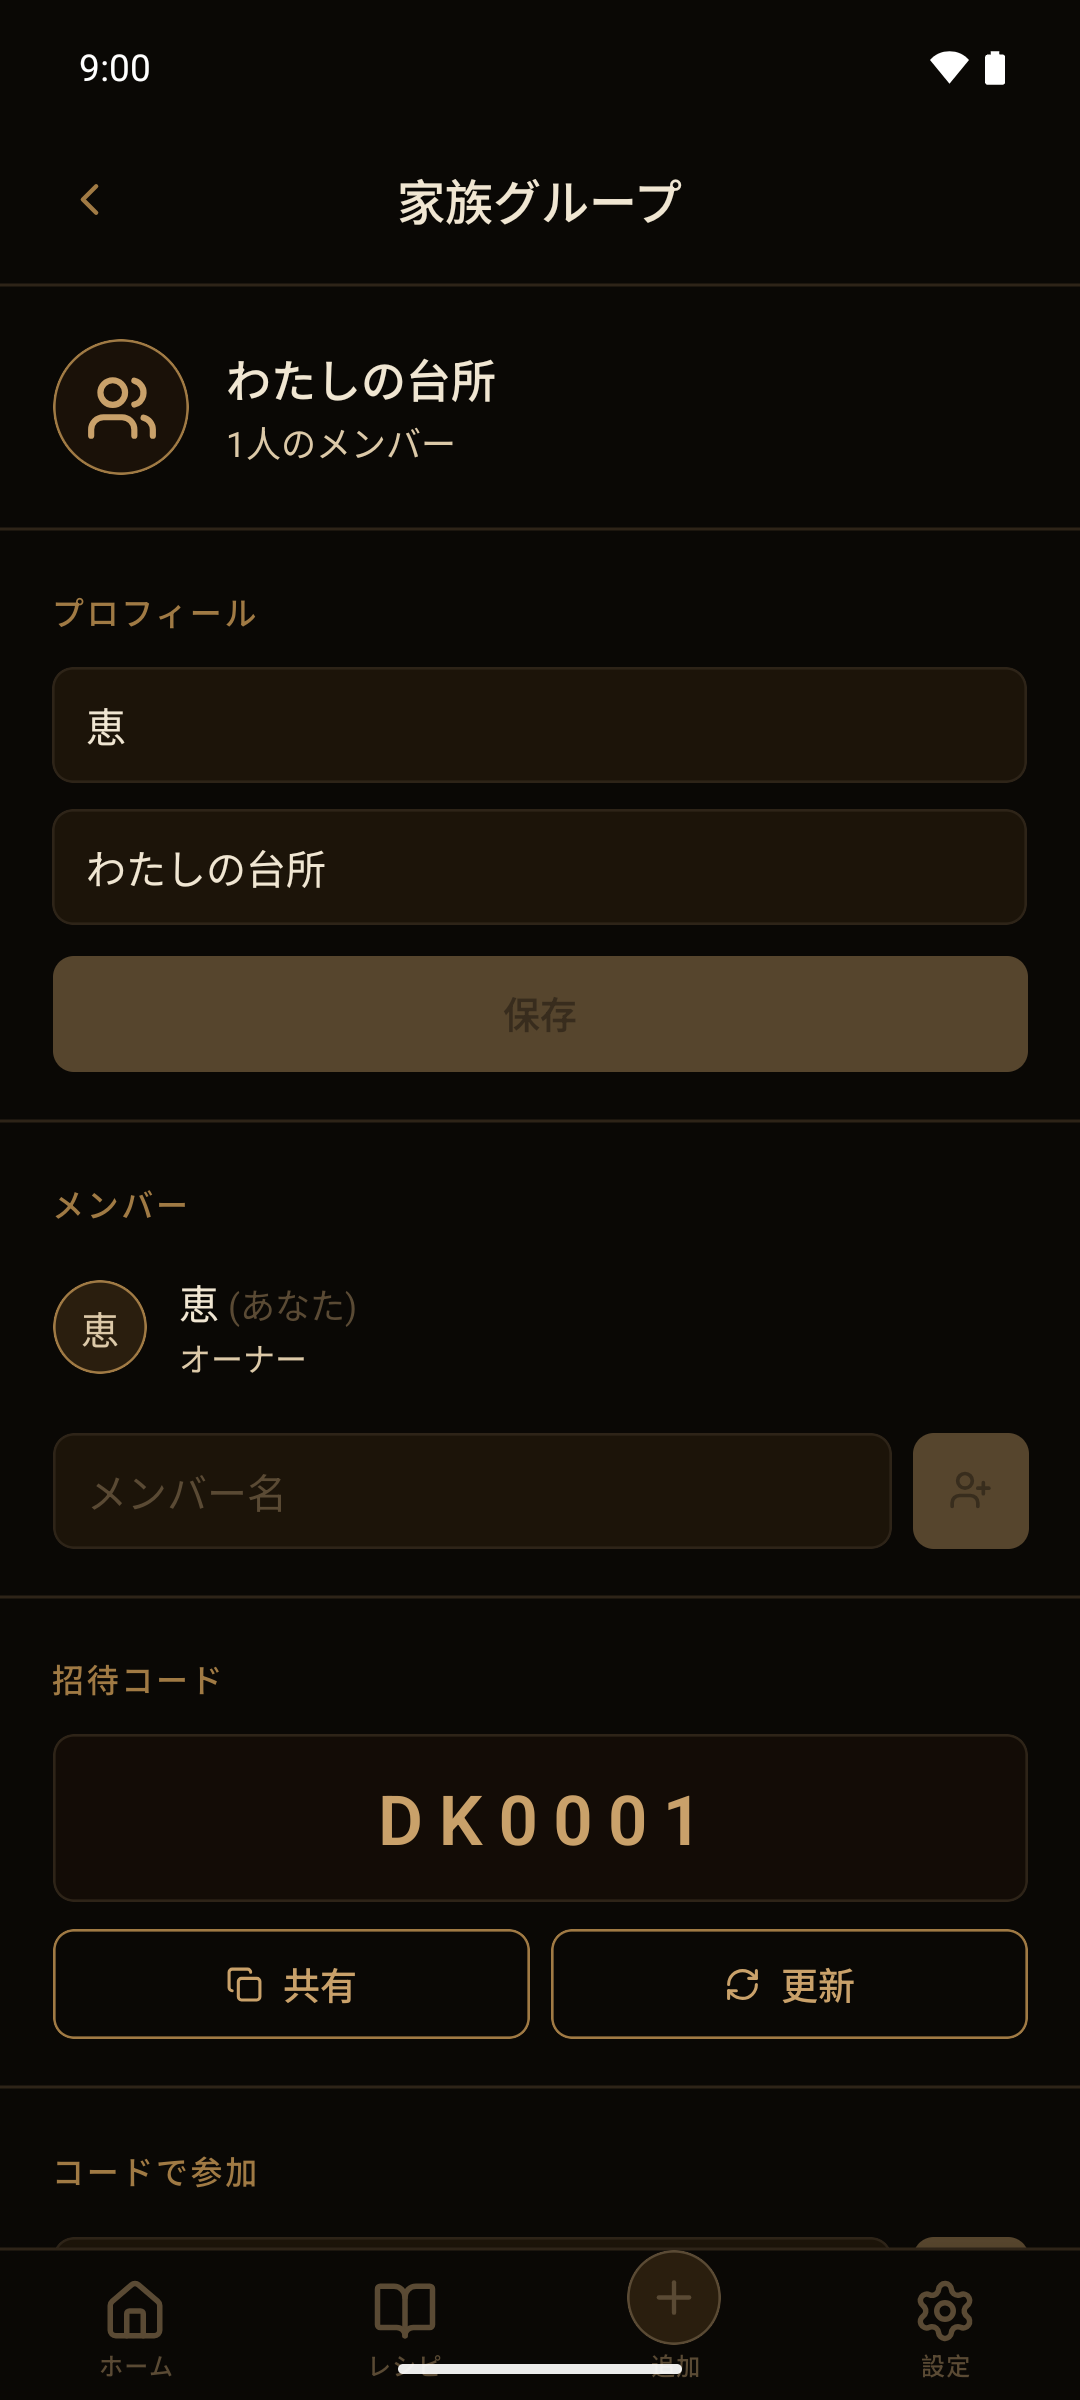
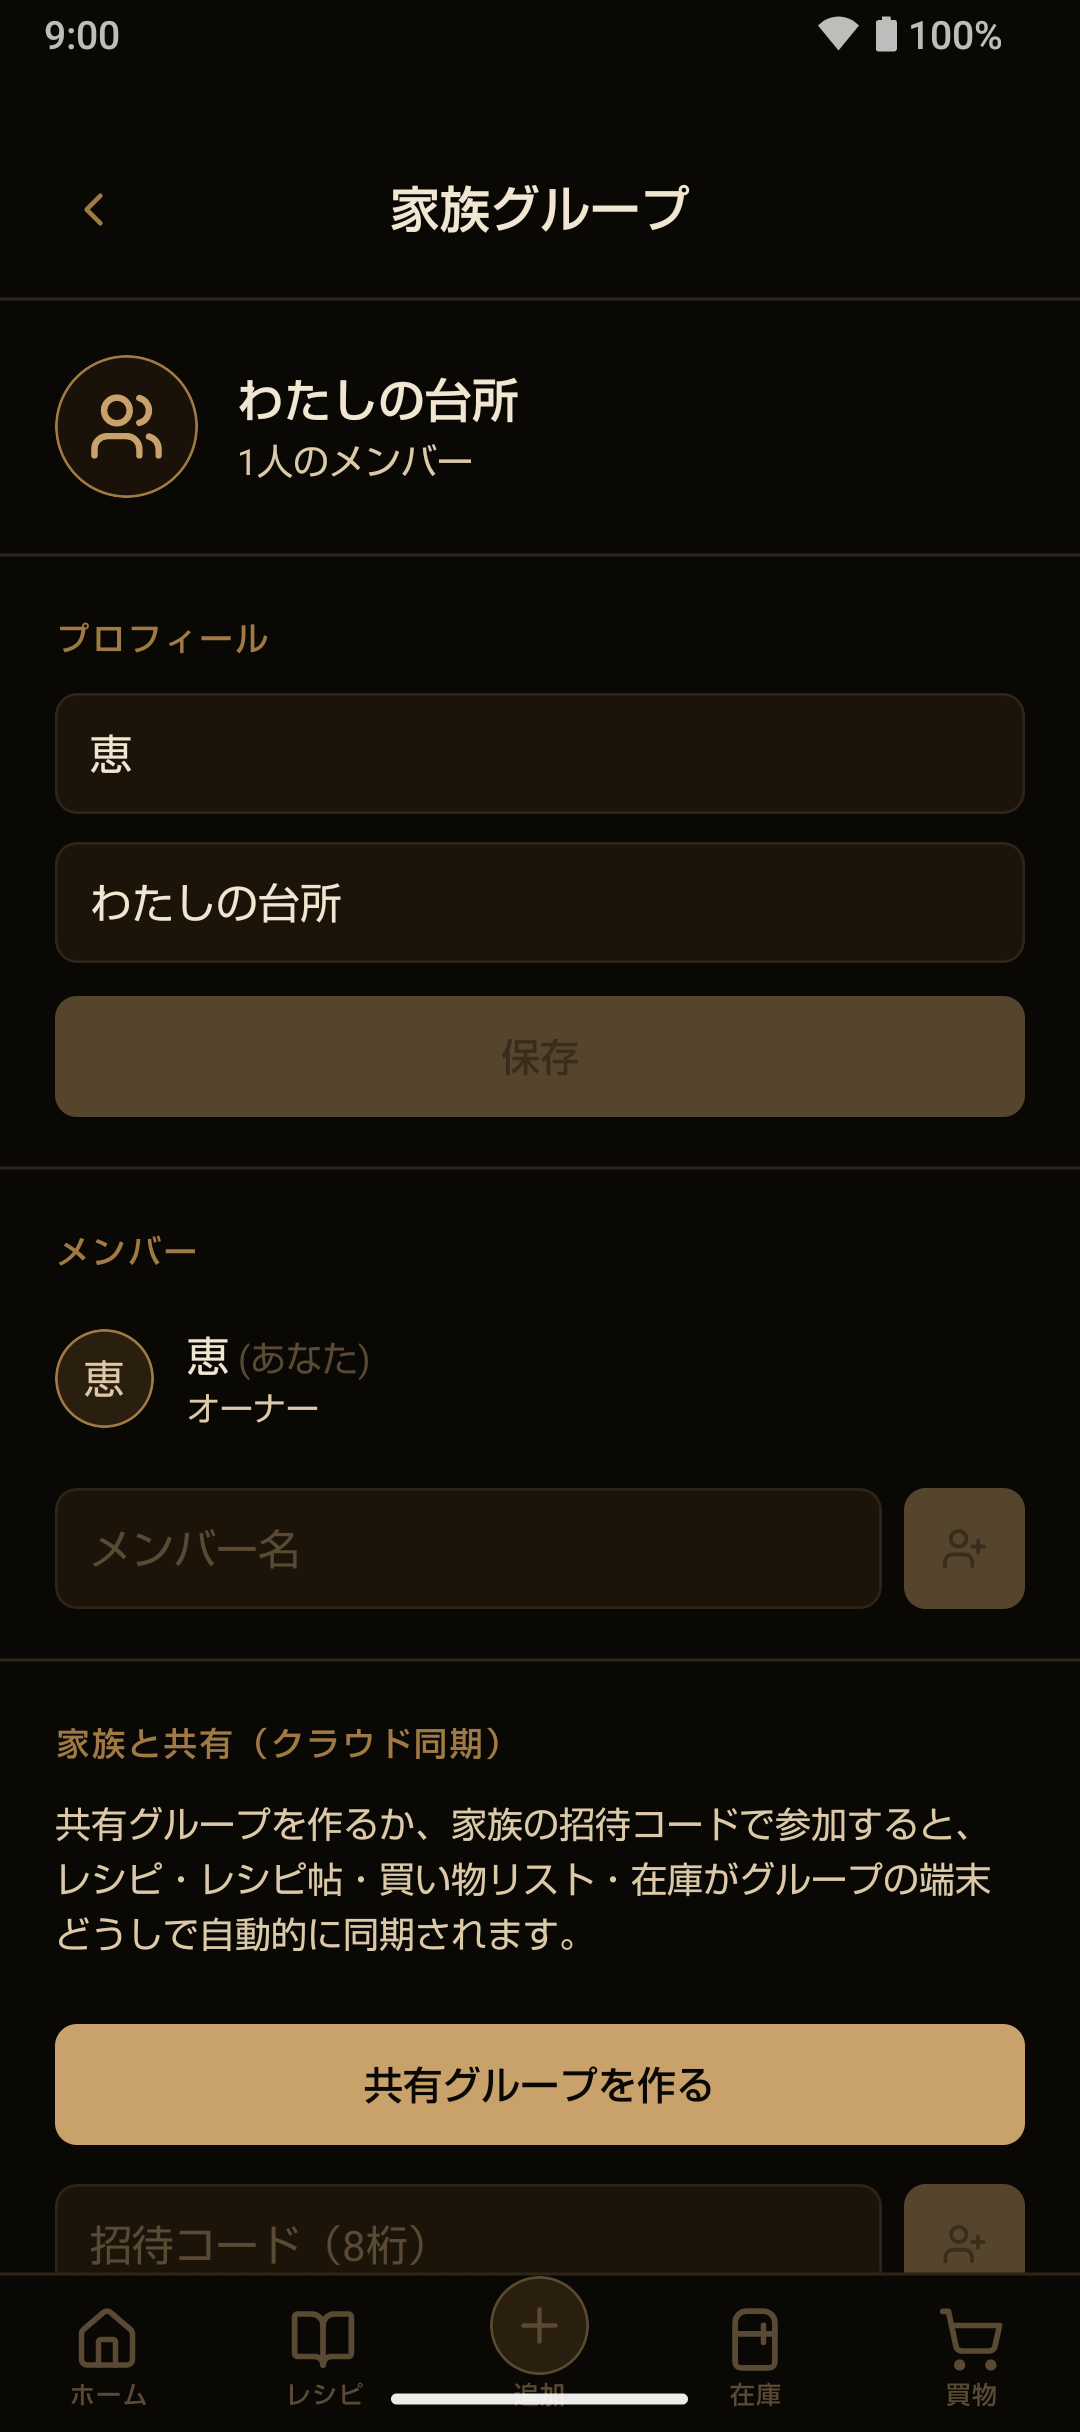
docs(store): 掲載スクショを 1.12.0 の実機で撮り直し、実機検証を記録
#217 / #219 でボトムタブに「買物」が増えたので、8 枚すべてを撮り直した。
撮影は AQUOS SH-RM19s（1080x2432・旧はエミュレータ 1080x2400）。

蔵書・ホーム・詳細に**実際の料理写真**が入るようにした。「写真からレシピ」で
店で食べた 6 品を作り、その写真がヒーロー画像になっている。1〜3 枚目
（10 → 07 → 08）は同じカルパッチョで揃えて「結果 → 仕組み → 下書き」が
一本の話になるようにした。

## 撮り直しの過程で見つけたもの

**07 に BYOK 状態が写っていた。** 検証で入れた自分の AI キーが残っていて
「自分のAIキー・使い放題」と表示されており、無料枠の案内が掲載物から消えていた。
キーを削除して撮り直した。Skill にこの順序（キーで撮影用データを作る →
最後にキーを消して 07 を撮り直す）を書いた。

不具合 3 件を起票（1.12.0 は止めない判断）:

- #220 レシピを編集して更新すると読みがなが消える（かな検索が静かに壊れる）
- #221 表紙写真を選んだ直後、フォームのプレビューが真っ黒
- #222 長い材料名・レシピ名で文字が重なる（詳細の材料行 / 料理中モードのヘッダー）

## 実機検証（docs/verification/1.12.0-10029.json）

- 写真からレシピを 7 回：BYOK 経路と**本番サーバー(Railway)経路**の両方で成功。
  サーバー経路では無料枠が あと1回 → あと0回 に減ることまで確認
- #214 選択シート：全部足りないときの 1 タップ直行と、2 回目のシート表示の両方
- #219 写真タップで全画面 / 買物タブ
- BYOK の保存・削除と、表示の切り替わり

## 記録

- `update-store-listing` Skill: BYOK を消してから撮る / 手動ショットのデモモード /
  実機で撮影用データを作るときの注意（`install -r` はデータを残す・自動バックアップの復元・
  元写真は自動で付く・長い名前は崩れる）
- `開発ハーネス.md` §4: 漢字は入れられないが、keyevent の
  MOVE_END / MOVE_HOME / FORWARD_DEL で既存文字を任意個数削れる

構成マップ（`開発ハーネス.md` §1）は Skill の増減が無いので変更なし。

diff --git a/docs/開発ハーネス.md b/docs/開発ハーネス.md
@@ -198,6 +198,12 @@ iOS 向け submit（`-p ios` / `--platform ios`）はこのガード対象外。
 - **日本語 IME だと `input text` にかなが混ざる**（`PIXELSYNC` → `PIXELSYNCま`）。
   Gboard 12 キーだけの問題ではなく、Pixel の既定 IME でも起きる。
   入力後は必ず dump で実際の値を確認する
+- **漢字は adb からは入れられないが、「既にある文字を削る」なら IME 抜きでできる**（2026-08-26）。
+  `keyevent 123`(MOVE_END) / `122`(MOVE_HOME) / `67`(DEL) / `112`(FORWARD_DEL) の組み合わせで
+  前後から任意の文字数を削れる。例:
+  `牛肉（ローストビーフ用薄切り、または牛モモ肉ブロック）` → 末尾から 1、先頭から 18 削って
+  `牛モモ肉ブロック`。**掲載スクショ用にデータを整える程度なら、これで足りることが多い**
+  （文字数は全角・半角を問わず 1 キーイベント = 1 文字）
 - **日本語 IME は英数字を全角で確定することがある**（AQUOS SH-RM19s の Gboard 12 キー・2026-08-23）。
   招待コードが `９ＴＸ９２ＤＣＺ` のまま送られ、正しいコードなのにサーバーが 404 を返した。
   **入力を受ける側で NFKC 正規化する**（`normalizeInviteCode` / 入力欄の `onChangeText`）。
